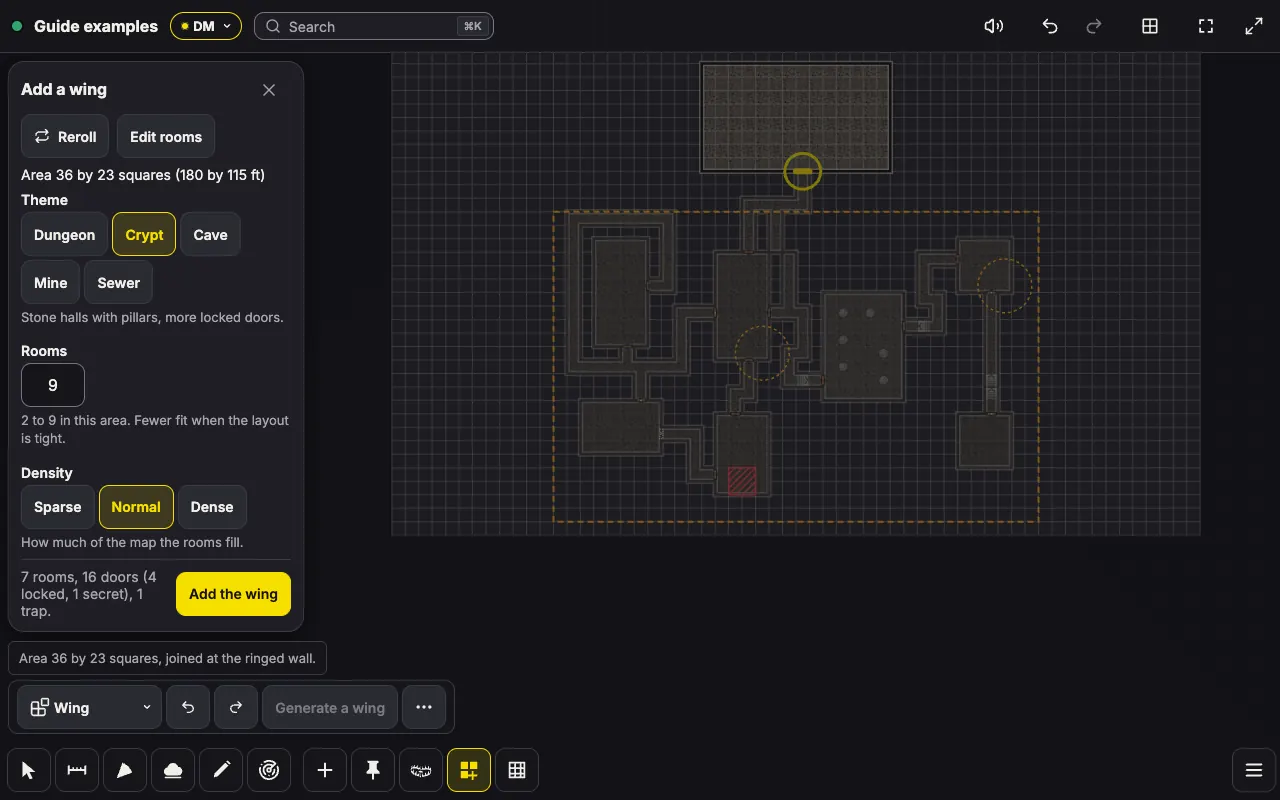
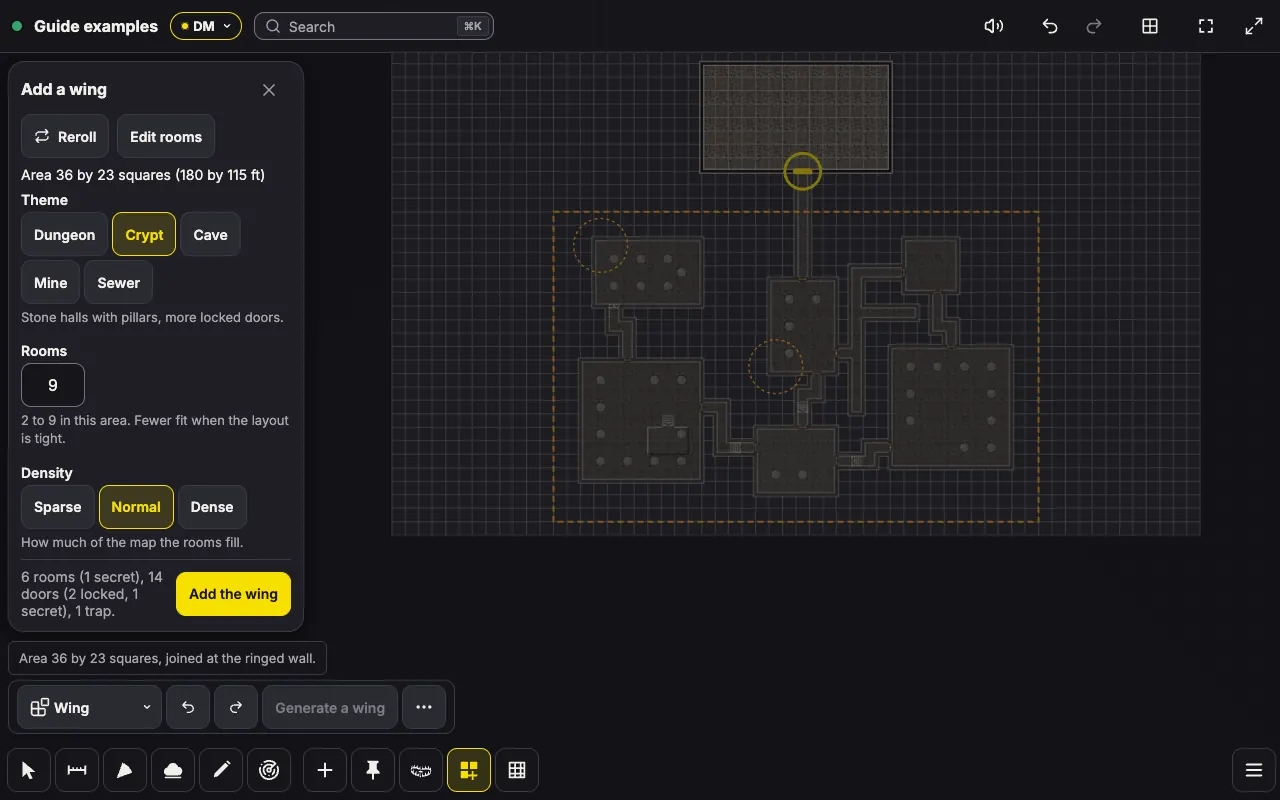
docs(guide): retake the dungeon pictures from the current build, and the replay scripts read the mouse's Click words

diff --git a/scripts/guide-dungeon-phase3.ts b/scripts/guide-dungeon-phase3.ts
@@ -246,7 +246,7 @@ try {
   await dm.mouse.move(a.x + (b.x - a.x) * 0.1, a.y + (b.y - a.y) * 0.1, { steps: 3 });
   await dm.mouse.move(b.x, b.y, { steps: 12 });
   await dm.mouse.up();
-  await waitFor("the line asking for the wall", async () => ((await line.innerText()).includes("Tap the wall the wing joins.") ? true : null));
+  await waitFor("the line asking for the wall", async () => (/(Tap|Click) the wall the wing joins\./.test(await line.innerText()) ? true : null));
   const join = await pagePoint(dm, KEEP, JOIN);
   await dm.mouse.click(join.x, join.y);
   await waitFor("the area and join set", async () => (/joined at the ringed wall/.test(await line.innerText()) ? true : null));

diff --git a/scripts/guide-discovery.ts b/scripts/guide-discovery.ts
@@ -160,7 +160,7 @@ try {
   await dm.getByRole("toolbar", { name: "Map builder options" }).getByRole("button", { name: "More options" }).click();
   const more = dm.getByRole("dialog", { name: "More Map builder options" });
   await more.getByRole("button", { name: "Clear build", exact: true }).click();
-  await more.getByRole("button", { name: "Tap again to clear" }).click();
+  await more.getByRole("button", { name: "Click again to clear" }).click();
   if (await more.isVisible()) await dm.keyboard.press("Escape");
   await dm.getByRole("dialog", { name: "Remembered map" }).waitFor();
   await sleep(500);
